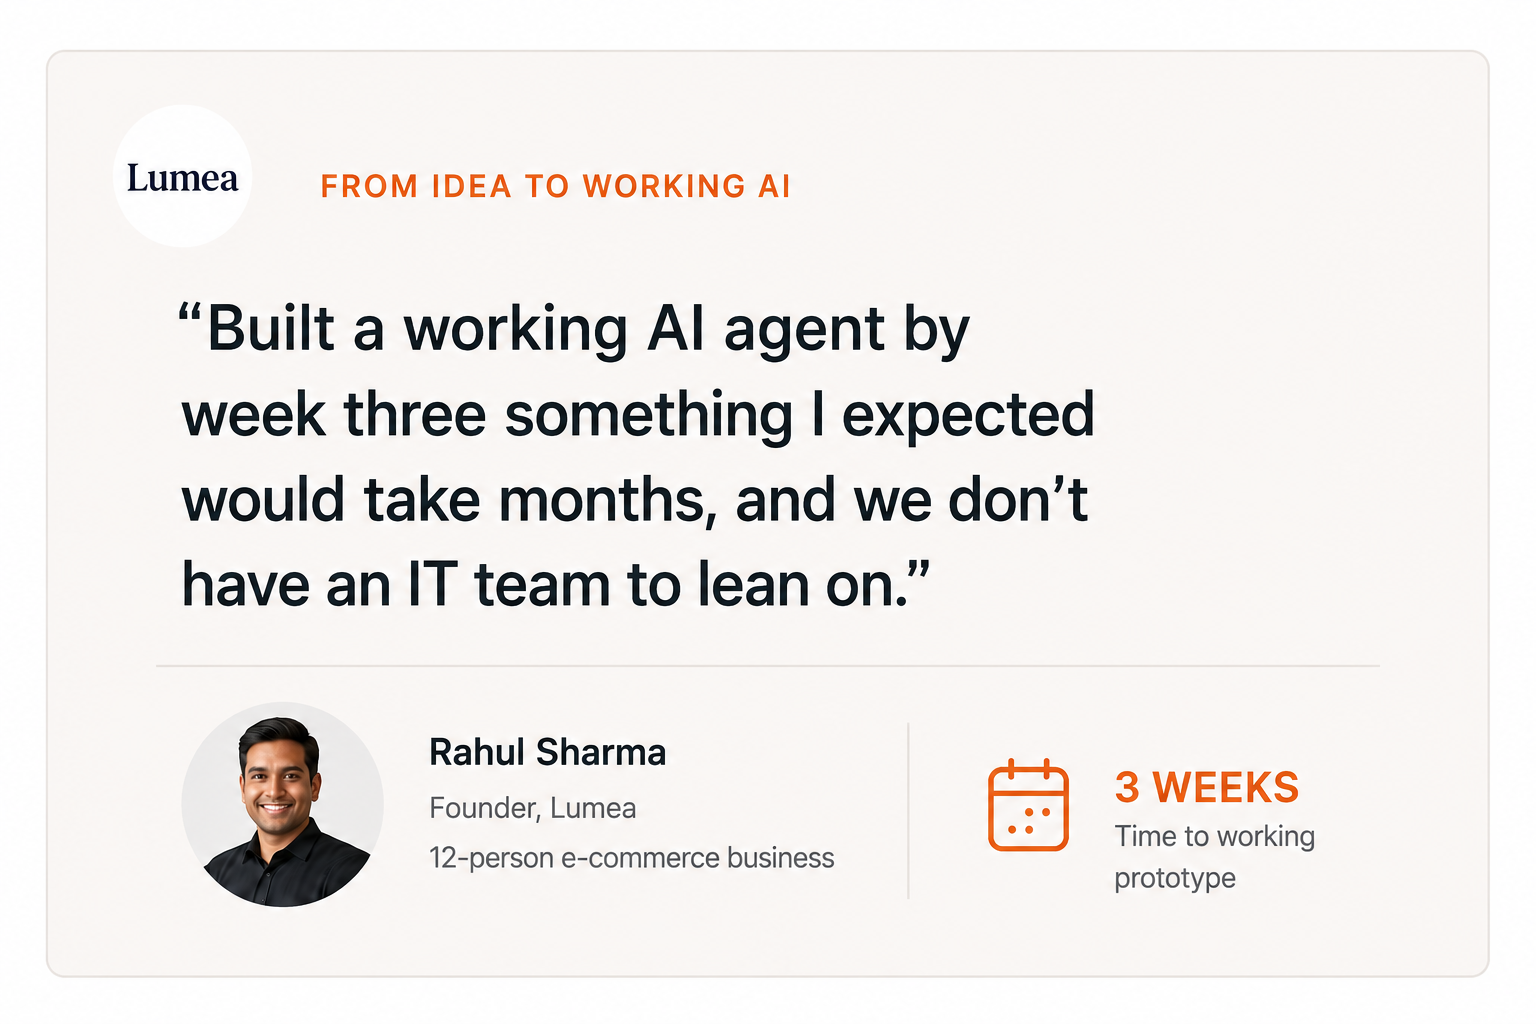
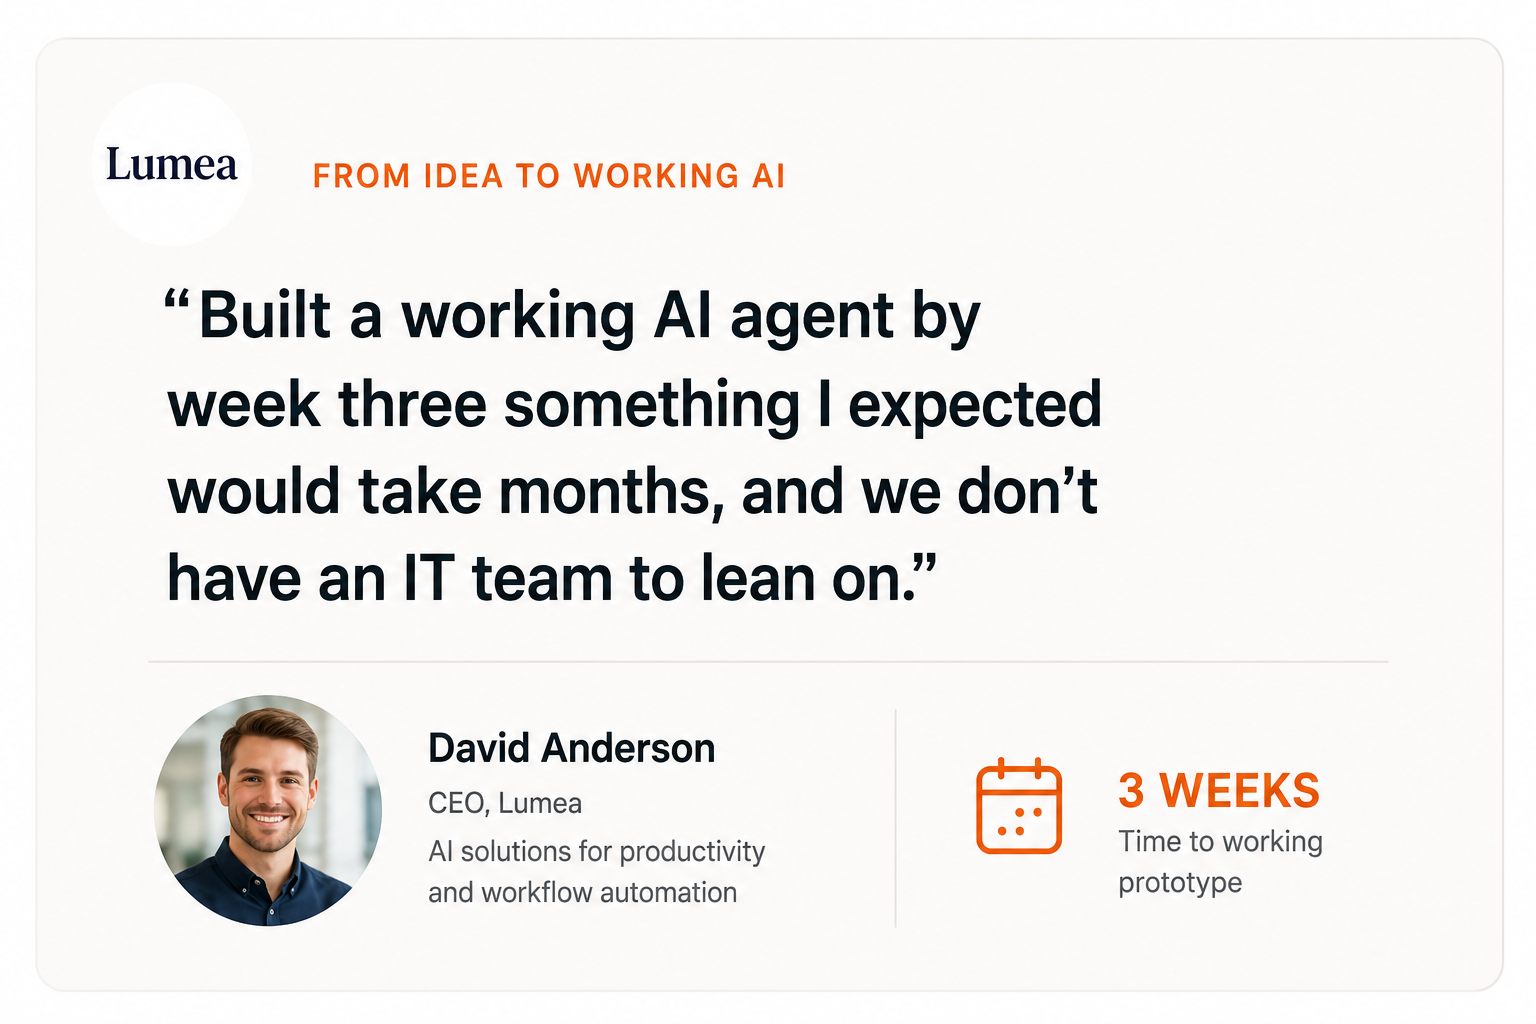
fix bugs in teams-ai-training page

diff --git a/src/app/team-ai-training/page.tsx b/src/app/team-ai-training/page.tsx
@@ -47,9 +47,9 @@ const caseStudies = [
 ] as const;
 
 const testimonials = [
-  { image: '/images/testimonial-01.png', alt: 'Rahul Sharma, Founder of Lumea, on going from idea to a working AI agent in three weeks' },
+  { image: '/images/testimonial-01.png', alt: 'David Anderson, CEO of Lumea, on going from idea to a working AI agent in three weeks' },
   { image: '/images/testimonial-02.png', alt: 'Shivam Kumar, Head of Customer Support at Solvix, on 45% faster response times and 20+ hours saved weekly' },
-  { image: '/images/testimonial-03.png', alt: 'Ankit Sharma, Head of Operations at Nexora, on cutting monthly reporting time from 3 days to 2 hours' },
+  { image: '/images/testimonial-03.png', alt: 'Daniel Mitchell, Director of Analytics at Nexora, on cutting monthly reporting time from 3 days to 2 hours' },
 ] as const;
 
 export default function TeamAiTrainingPage() {
@@ -341,8 +341,8 @@ export default function TeamAiTrainingPage() {
                   <Image
                     src={testimonial.image}
                     alt={testimonial.alt}
-                    width={600}
-                    height={520}
+                    width={1536}
+                    height={1024}
                     className={styles.testimonialImage}
                   />
                 </article>

diff --git a/src/app/team-ai-training/team-ai-training.module.css b/src/app/team-ai-training/team-ai-training.module.css
@@ -177,13 +177,11 @@
 }
 .logo { font-weight: 700; color: #69665f; font-size: 16px; }
 .testimonialGrid { display: grid; grid-template-columns: repeat(3, 1fr); gap: 16px; }
-.testimonial { border-radius: 12px; overflow: hidden; border: 1px solid var(--line); }
+.testimonial { border-radius: 12px; overflow: hidden; }
 .testimonialImage {
   width: 100%;
   height: auto;
   display: block;
-  transform: scale(1.12);
-  transform-origin: center;
 }
 
 /* FIT */
